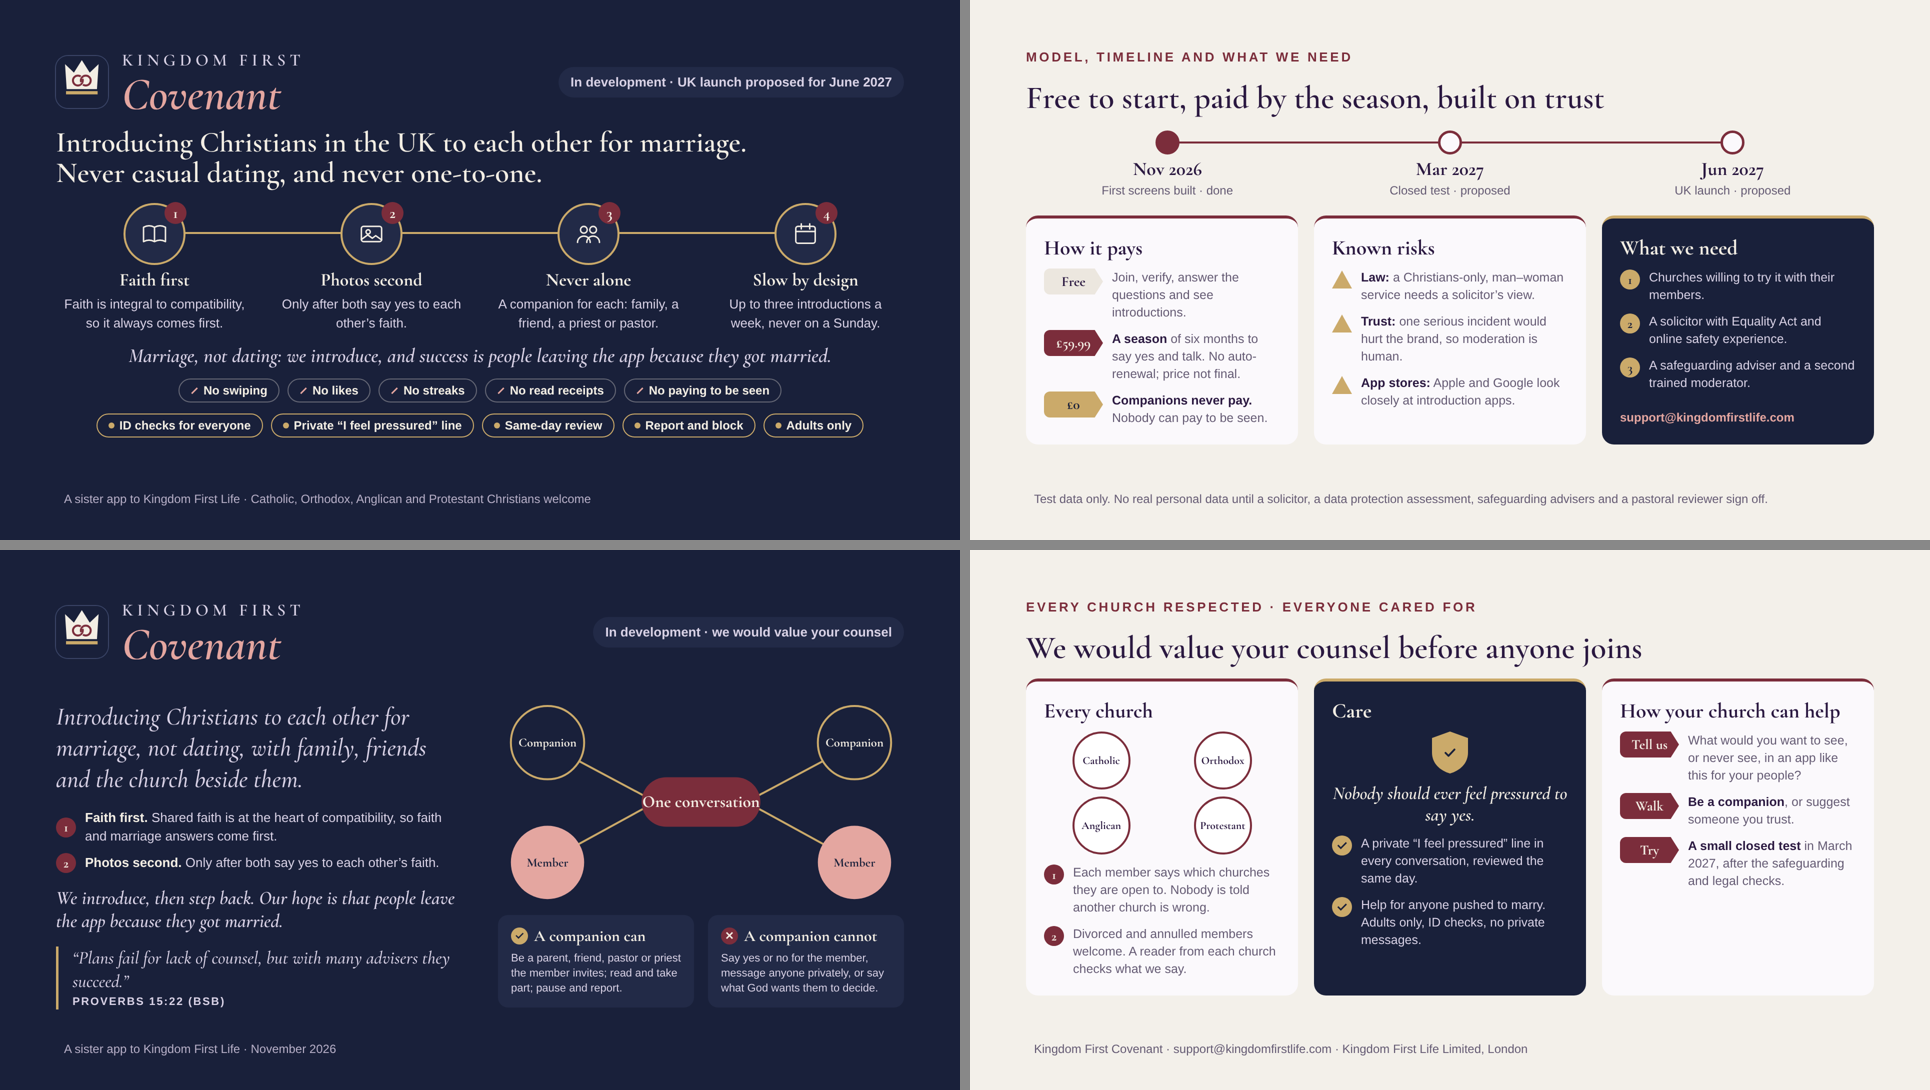
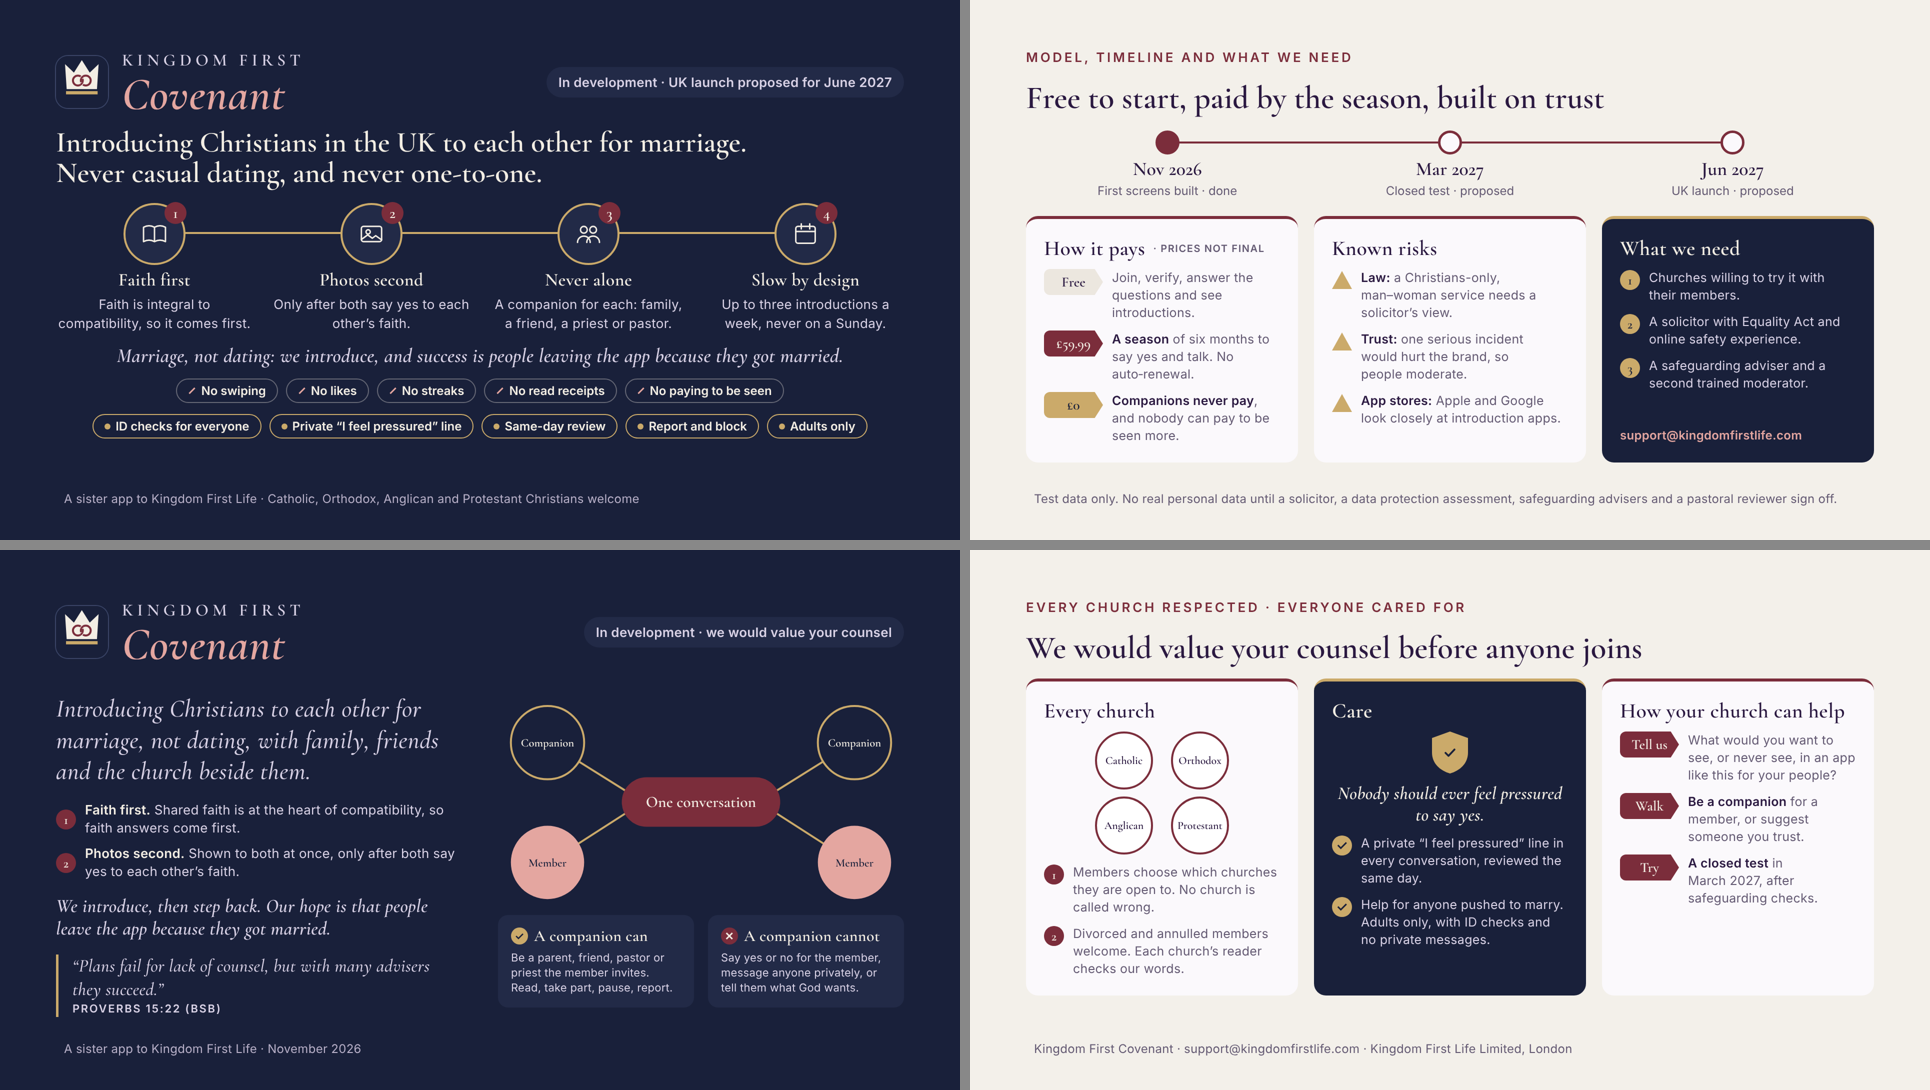
Covenant decks: drafting standards (no orphans, labels never break, even text, diagram pill fits), measure script
Claude-Session: https://claude.ai/code/session_01N4ZzaWXJwFYNBfoAXhFqvg

diff --git a/docs/decks/pastors/project/slides/overview.html b/docs/decks/pastors/project/slides/overview.html
@@ -4,26 +4,26 @@
 <div class="lft rise" style="--i:0">
 <p class="lead">Introducing Christians to each other for marriage, not dating, with family, friends and the church beside them.</p>
 <div class="mini">
-<div class="row"><span class="dot">1</span><p><b>Faith first.</b> Shared faith is at the heart of compatibility, so faith and marriage answers come first.</p></div>
-<div class="row"><span class="dot">2</span><p><b>Photos second.</b> Only after both say yes to each other’s faith.</p></div>
+<div class="row"><span class="dot">1</span><p><b>Faith first.</b> Shared faith is at the heart of compatibility, so faith answers come first.</p></div>
+<div class="row"><span class="dot">2</span><p><b>Photos second.</b> Shown to both at once, only after both say yes to each other’s faith.</p></div>
 </div>
 <p class="goal">We introduce, then step back. Our hope is that people leave the app because they got married.</p>
 <div class="vbox"><p class="verse">“Plans fail for lack of counsel, but with many advisers they succeed.”</p><p class="ref">Proverbs 15:22 (BSB)</p></div>
 </div>
 <div class="lft rise" style="--i:1">
 <svg class="circle-dia" viewBox="0 0 820 400" role="img" aria-label="Two members, each with a companion, in one conversation">
-<g stroke="#CBAA6A" stroke-width="4"><line x1="150" y1="110" x2="300" y2="190"/><line x1="670" y1="110" x2="520" y2="190"/><line x1="150" y1="292" x2="300" y2="210"/><line x1="670" y1="292" x2="520" y2="210"/></g>
-<rect x="290" y="150" width="240" height="100" rx="50" fill="#7B2D3B"/>
-<text x="410" y="210" text-anchor="middle" fill="#F3EEE4" font-family="Cormorant Garamond" font-weight="700" font-size="34">One conversation</text>
-<g font-family="Cormorant Garamond" font-weight="700" font-size="25" text-anchor="middle">
+<g stroke="#CBAA6A" stroke-width="4"><line x1="150" y1="110" x2="262" y2="180"/><line x1="670" y1="110" x2="558" y2="180"/><line x1="150" y1="292" x2="262" y2="220"/><line x1="670" y1="292" x2="558" y2="220"/></g>
+<rect x="250" y="150" width="320" height="100" rx="50" fill="#7B2D3B"/>
+<text x="410" y="210" text-anchor="middle" fill="#F3EEE4" font-family="Cormorant Garamond" font-weight="700" font-size="32">One conversation</text>
+<g font-family="Cormorant Garamond" font-weight="700" font-size="23" text-anchor="middle">
 <circle cx="100" cy="80" r="74" fill="#19203A" stroke="#CBAA6A" stroke-width="4"/><text x="100" y="88" fill="#F3EEE4">Companion</text>
 <circle cx="720" cy="80" r="74" fill="#19203A" stroke="#CBAA6A" stroke-width="4"/><text x="720" y="88" fill="#F3EEE4">Companion</text>
 <circle cx="100" cy="322" r="74" fill="#E4A6A0"/><text x="100" y="330" fill="#19203A">Member</text>
 <circle cx="720" cy="322" r="74" fill="#E4A6A0"/><text x="720" y="330" fill="#19203A">Member</text></g>
 </svg>
 <div class="cc">
-<div class="yes"><h3><i>✓</i>A companion can</h3><p>Be a parent, friend, pastor or priest the member invites; read and take part; pause and report.</p></div>
-<div class="no"><h3><i>✕</i>A companion cannot</h3><p>Say yes or no for the member, message anyone privately, or say what God wants them to decide.</p></div>
+<div class="yes"><h3><i>✓</i>A companion can</h3><p>Be a parent, friend, pastor or priest the member invites. Read, take part, pause, report.</p></div>
+<div class="no"><h3><i>✕</i>A companion cannot</h3><p>Say yes or no for the member, message anyone privately, or tell them what God wants.</p></div>
 </div></div>
 </div>
 <p class="foot">A sister app to Kingdom First Life · November 2026</p>

diff --git a/docs/decks/executives/project/slides/overview.html b/docs/decks/executives/project/slides/overview.html
@@ -2,7 +2,7 @@
 <div class="toprow"><div class="wmr"><svg class="icon" viewBox="0 0 120 120" aria-hidden="true"><rect width="120" height="120" rx="26" fill="#19203A"/><g transform="translate(14 8) scale(.76)"><path fill="#F3EEE4" d="M14 90 L9 14 L36 40 L60 2 L84 40 L111 14 L106 90 Z"/><circle cx="48" cy="64" r="15" fill="none" stroke="#7B2D3B" stroke-width="6"/><circle cx="72" cy="64" r="15" fill="none" stroke="#7B2D3B" stroke-width="6"/><path d="M61.59 70.34 A15 15 0 0 1 55.50 76.99" fill="none" stroke="#F3EEE4" stroke-width="10"/><path d="M61.59 70.34 A15 15 0 0 1 55.50 76.99" fill="none" stroke="#7B2D3B" stroke-width="6"/><path d="M58.41 57.66 A15 15 0 0 1 64.50 51.01" fill="none" stroke="#F3EEE4" stroke-width="10"/><path d="M58.41 57.66 A15 15 0 0 1 64.50 51.01" fill="none" stroke="#7B2D3B" stroke-width="6"/><path fill="#CBAA6A" d="M12 96h96v10H12Z"/></g></svg><div><p class="wm1">KINGDOM FIRST</p><p class="wm2">Covenant</p></div></div><p class="pill">In development · UK launch proposed for June 2027</p></div>
 <h2 class="hd">Introducing Christians in the UK to each other for marriage.<br>Never casual dating, and never one-to-one.</h2>
 <div class="flow">
-<div class="node rise" style="--i:0"><div class="disc"><b>1</b><svg viewBox="0 0 64 64" fill="none" stroke="#F3EEE4" stroke-width="3.5" stroke-linecap="round" stroke-linejoin="round"><path d="M6 16c9-5 17-5 26 0v34c-9-5-17-5-26 0zM32 16c9-5 17-5 26 0v34c-9-5-17-5-26 0z"/></svg></div><h3>Faith first</h3><p>Faith is integral to compatibility, so it always comes first.</p></div>
+<div class="node rise" style="--i:0"><div class="disc"><b>1</b><svg viewBox="0 0 64 64" fill="none" stroke="#F3EEE4" stroke-width="3.5" stroke-linecap="round" stroke-linejoin="round"><path d="M6 16c9-5 17-5 26 0v34c-9-5-17-5-26 0zM32 16c9-5 17-5 26 0v34c-9-5-17-5-26 0z"/></svg></div><h3>Faith first</h3><p>Faith is integral to compatibility, so it comes first.</p></div>
 <div class="node rise" style="--i:1"><div class="disc"><b>2</b><svg viewBox="0 0 64 64" fill="none" stroke="#F3EEE4" stroke-width="3.5" stroke-linecap="round" stroke-linejoin="round"><rect x="8" y="14" width="48" height="36" rx="5"/><circle cx="24" cy="27" r="5"/><path d="M8 45l15-11 11 8 8-6 14 10"/></svg></div><h3>Photos second</h3><p>Only after both say yes to each other’s faith.</p></div>
 <div class="node rise" style="--i:2"><div class="disc"><b>3</b><svg viewBox="0 0 64 64" fill="none" stroke="#F3EEE4" stroke-width="3.5" stroke-linecap="round" stroke-linejoin="round"><circle cx="21" cy="22" r="8"/><circle cx="43" cy="22" r="8"/><path d="M6 52c0-9 7-15 15-15s15 6 15 15M28 52c0-9 7-15 15-15s15 6 15 15"/></svg></div><h3>Never alone</h3><p>A companion for each: family, a friend, a priest or pastor.</p></div>
 <div class="node rise" style="--i:3"><div class="disc"><b>4</b><svg viewBox="0 0 64 64" fill="none" stroke="#F3EEE4" stroke-width="3.5" stroke-linecap="round" stroke-linejoin="round"><rect x="9" y="14" width="46" height="40" rx="5"/><path d="M9 26h46M22 8v12M42 8v12"/></svg></div><h3>Slow by design</h3><p>Up to three introductions a week, never on a Sunday.</p></div>

diff --git a/docs/decks/pastors/project/slides/church.html b/docs/decks/pastors/project/slides/church.html
@@ -4,17 +4,17 @@
 <div class="tri">
 <div class="panel rise" style="--i:0"><h3>Every church</h3>
 <div class="churches"><span>Catholic</span><span>Orthodox</span><span>Anglican</span><span>Protestant</span></div>
-<div class="row"><span class="dot">1</span><p>Each member says which churches they are open to. Nobody is told another church is wrong.</p></div>
-<div class="row"><span class="dot">2</span><p>Divorced and annulled members welcome. A reader from each church checks what we say.</p></div></div>
+<div class="row"><span class="dot">1</span><p>Members choose which churches they are open to. No church is called wrong.</p></div>
+<div class="row"><span class="dot">2</span><p>Divorced and annulled members welcome. Each church’s reader checks our words.</p></div></div>
 <div class="panel navy rise" style="--i:1"><h3>Care</h3>
 <div class="shield"><svg viewBox="0 0 48 48" fill="none" stroke="#19203A" stroke-width="5" stroke-linecap="round" stroke-linejoin="round"><path d="M12 25l8 8 16-17"/></svg></div>
 <p class="say">Nobody should ever feel pressured to say yes.</p>
 <div class="row"><span class="dot">✓</span><p>A private “I feel pressured” line in every conversation, reviewed the same day.</p></div>
-<div class="row"><span class="dot">✓</span><p>Help for anyone pushed to marry. Adults only, ID checks, no private messages.</p></div></div>
+<div class="row"><span class="dot">✓</span><p>Help for anyone pushed to marry. Adults only, with ID checks and no private messages.</p></div></div>
 <div class="panel rise" style="--i:2"><h3>How your church can help</h3>
 <div class="row"><span class="tag">Tell us</span><p>What would you want to see, or never see, in an app like this for your people?</p></div>
-<div class="row"><span class="tag">Walk</span><p><b>Be a companion</b>, or suggest someone you trust.</p></div>
-<div class="row"><span class="tag">Try</span><p><b>A small closed test</b> in March 2027, after the safeguarding and legal checks.</p></div></div>
+<div class="row"><span class="tag">Walk</span><p><b>Be a companion</b> for a member, or suggest someone you trust.</p></div>
+<div class="row"><span class="tag">Try</span><p><b>A closed test</b> in March 2027, after safeguarding checks.</p></div></div>
 </div>
 <p class="foot">Kingdom First Covenant · support@kingdomfirstlife.com · Kingdom First Life Limited, London</p>
 <aside>Independent safeguarding advisers, a pastoral reviewer and a solicitor all sign off before any real person joins. We never use 2 Corinthians 6:14 between Christians of different churches.</aside>

diff --git a/docs/decks/executives/project/slides/plan.html b/docs/decks/executives/project/slides/plan.html
@@ -3,13 +3,13 @@
 <h2 class="hd">Free to start, paid by the season, built on trust</h2>
 <div class="tl rise" style="--i:0"><div class="done"><i></i><b>Nov 2026</b><span>First screens built · done</span></div><div><i></i><b>Mar 2027</b><span>Closed test · proposed</span></div><div><i></i><b>Jun 2027</b><span>UK launch · proposed</span></div></div>
 <div class="tri">
-<div class="panel rise" style="--i:1"><h3>How it pays</h3>
+<div class="panel rise" style="--i:1"><h3>How it pays <span style="font-family:var(--body);font-size:20px;font-weight:600;color:var(--muted);letter-spacing:.08em;text-transform:uppercase;white-space:nowrap">· prices not final</span></h3>
 <div class="row"><span class="tag soft">Free</span><p>Join, verify, answer the questions and see introductions.</p></div>
-<div class="row"><span class="tag">£59.99</span><p><b>A season</b> of six months to say yes and talk. No auto-renewal; price not final.</p></div>
-<div class="row"><span class="tag gold">£0</span><p><b>Companions never pay.</b> Nobody can pay to be seen.</p></div></div>
+<div class="row"><span class="tag">£59.99</span><p><b>A season</b> of six months to say yes and talk. No auto‑renewal.</p></div>
+<div class="row"><span class="tag gold">£0</span><p><b>Companions never pay</b>, and nobody can pay to be seen more.</p></div></div>
 <div class="panel rise" style="--i:2"><h3>Known risks</h3>
-<div class="row"><span class="warn"></span><p><b>Law:</b> a Christians-only, man–woman service needs a solicitor’s view.</p></div>
-<div class="row"><span class="warn"></span><p><b>Trust:</b> one serious incident would hurt the brand, so moderation is human.</p></div>
+<div class="row"><span class="warn"></span><p><b>Law:</b> a Christians-only, <span style="white-space:nowrap">man–woman</span> service needs a solicitor’s view.</p></div>
+<div class="row"><span class="warn"></span><p><b>Trust:</b> one serious incident would hurt the brand, so people moderate.</p></div>
 <div class="row"><span class="warn"></span><p><b>App stores:</b> Apple and Google look closely at introduction apps.</p></div></div>
 <div class="panel navy rise" style="--i:3"><h3>What we need</h3>
 <div class="row"><span class="dot">1</span><p>Churches willing to try it with their members.</p></div>

diff --git a/docs/decks/executives/project/deck.css b/docs/decks/executives/project/deck.css
@@ -114,3 +114,8 @@ section.tight{padding:96px 112px 120px;gap:28px}
 .say{font-family:var(--display);font-style:italic;font-weight:600;font-size:36px;line-height:1.2;color:var(--light);text-align:center}
 .goal{font-family:var(--display);font-style:italic;font-weight:600;font-size:40px;line-height:1.2;color:#CBAA6A;margin:0;text-align:center}
 #overview{gap:22px}#overview .disc{width:116px;height:116px}#overview .disc svg{width:54px;height:54px}#overview .flow::before{top:58px}#overview h2.hd{font-size:58px}#overview .node{gap:10px}#overview .node h3{font-size:36px}
+/* drafting standards: no orphan words, labels never break */
+section p,section li,section h3{text-wrap:pretty}
+section h2{text-wrap:balance}
+.pill,.chips span,.tag,.tl span,.tl b{white-space:nowrap}
+#overview .node p{max-width:410px}

diff --git a/docs/decks/pastors/project/deck.css b/docs/decks/pastors/project/deck.css
@@ -122,3 +122,8 @@ section.tight{padding:96px 112px 120px;gap:28px}
 .mini .row p{font-size:26px;color:#D9D2E6}
 .mini .row p b{color:var(--light)}
 .goal{font-family:var(--display);font-style:italic;font-weight:600;font-size:38px;line-height:1.2;color:#CBAA6A;margin:0}
+/* drafting standards: no orphan words, labels never break */
+section p,section li,section h3{text-wrap:pretty}
+section h2{text-wrap:balance}
+.pill,.chips span,.tag,.tl span,.tl b{white-space:nowrap}
+.churches{grid-template-columns:repeat(2,116px);justify-content:center;gap:14px 36px}
